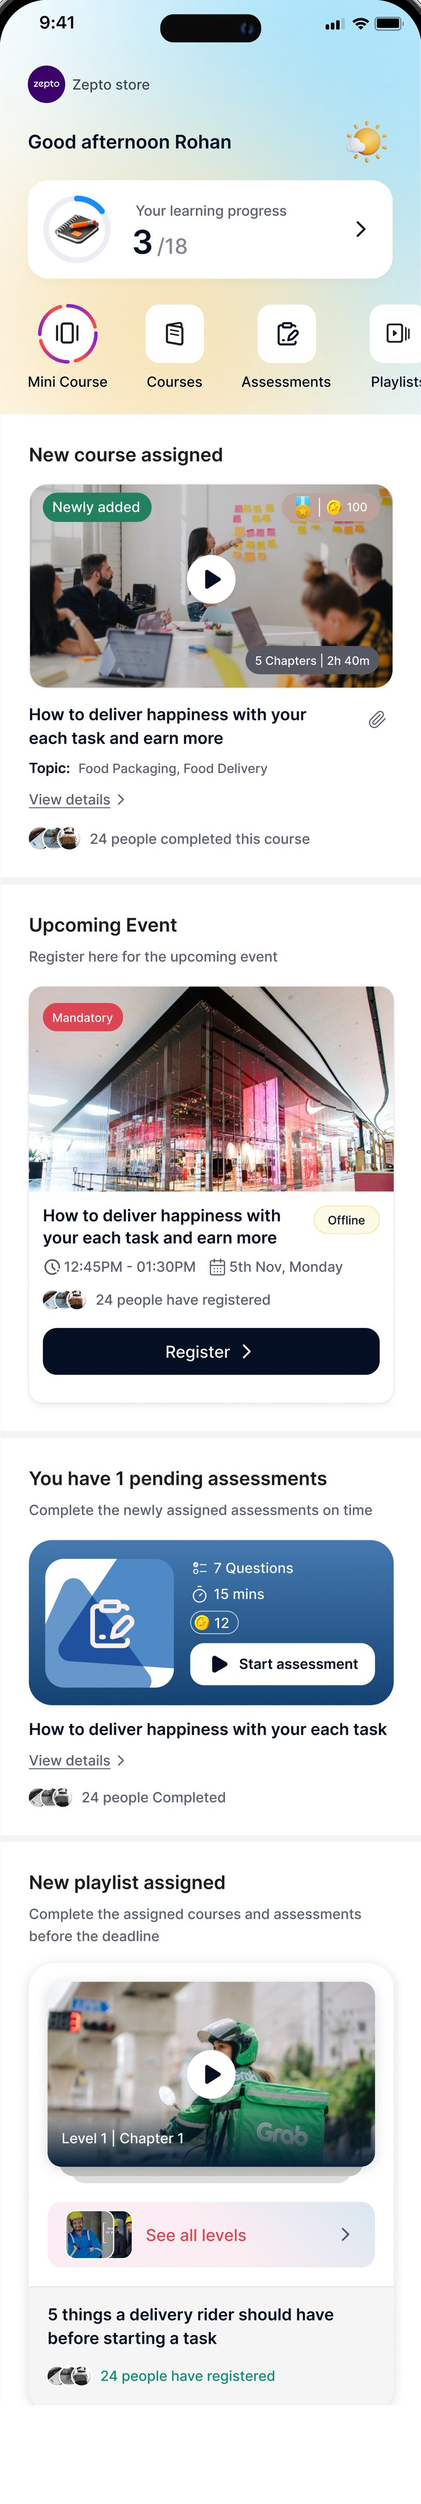
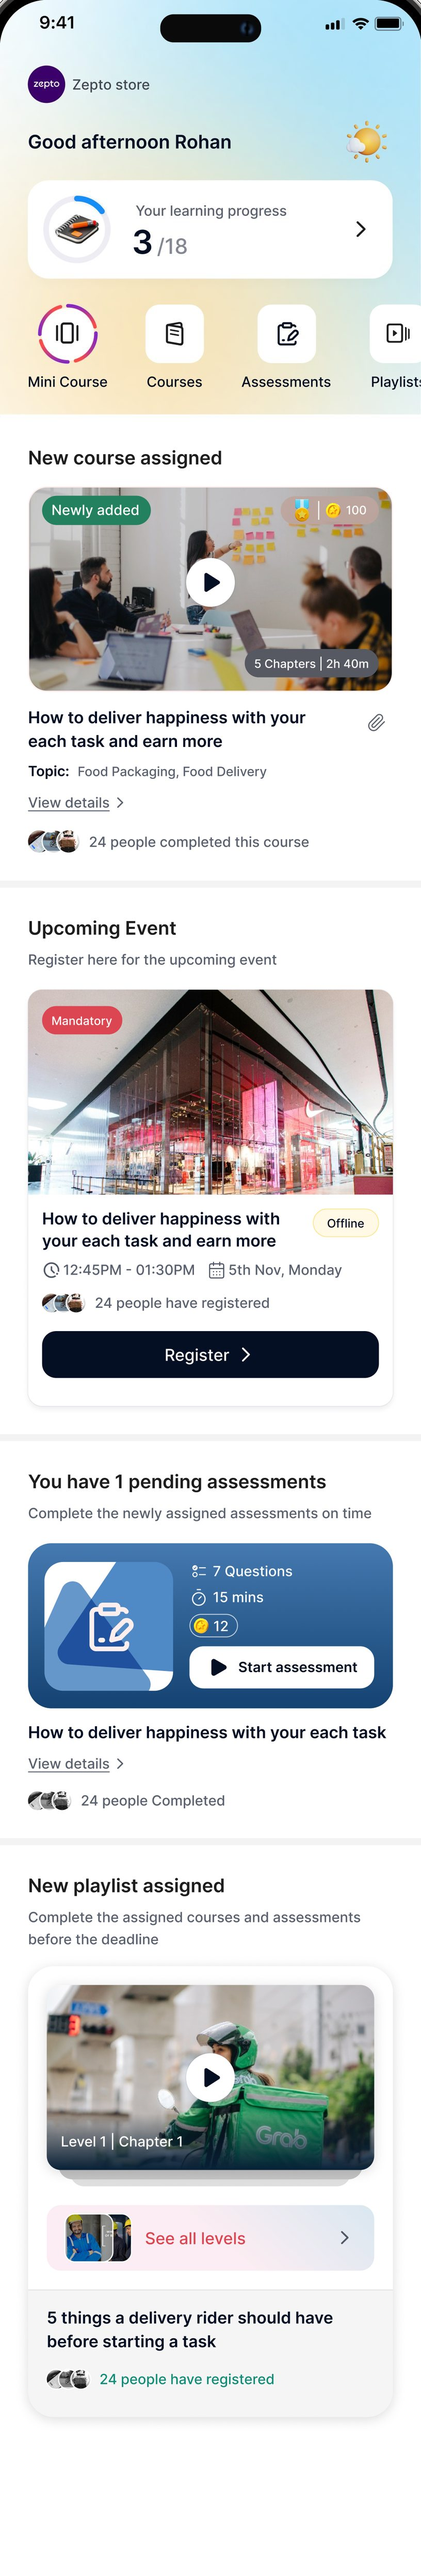
Pinned phones: every step holds its time, no screens showing through; new home content; whole-page course detail
- each step stays up at least 850ms from when it arrived, in both directions
- only the screen being replaced is held underneath a swap
- home feed rebuilt from the updated content export, with room below the last card
- spotlights on course and assessment home states fit inside their sections and sit centred
- course detail: default, in progress and completed as whole-page notes that swap in place

diff --git a/work-skilling.html b/work-skilling.html
@@ -503,18 +503,19 @@ body.cs-lb-lock { overflow: hidden; }
 .cs-phone-screen { contain: layout paint; }
 .cs-phone-bezel { position: absolute; inset: 0; width: 100%; height: 100%; pointer-events: none; }
 .cs-phone-screen { position: absolute; left: 4.735%; top: 1.905%; width: 90.694%; height: 96.27%; border-radius: 10.62% / 4.864%; overflow: hidden; background: #fff; }
-.cs-phone-feed { position: relative; transform: translateY(calc(-1 * var(--y))); transition: transform 0.9s cubic-bezier(0.65, 0, 0.35, 1); }
+.cs-phone-feed { position: relative; transform: translateY(calc(-1 * var(--y))); transition: transform 0.75s cubic-bezier(0.65, 0, 0.35, 1); }
 .cs-phone-feed img { display: block; width: 100%; height: auto; }
 .cs-phone-bar { position: absolute; left: 0; right: 0; }
 .cs-phone-bar img { display: block; width: 100%; height: auto; }
 .cs-phone-status { top: 0; opacity: 0; transition: opacity 0.4s ease; }
 .cs-phone-view.is-scrolled .cs-phone-status, .cs-phone-status--on { opacity: 1; }
 .cs-phone-view { position: absolute; inset: 0; opacity: 0; transform: translateY(14px) scale(0.99); transition: opacity 0.55s ease, transform 0.7s cubic-bezier(0.16, 1, 0.3, 1); }
-.cs-phone-view.is-current { opacity: 1; transform: none; z-index: 1; }
-.cs-phone-view:not(.is-current) { transition-delay: 0.6s; }
+.cs-phone-view.is-current { opacity: 1; transform: none; z-index: 2; }
+/* the screen being replaced holds still underneath until the new one is in; older screens have already gone */
+.cs-phone-view.is-leaving { z-index: 1; transition-delay: 0.5s; }
 /* another state of the same page swaps in place, without the rise */
 .cs-phone-view--same { transform: none; }
-.cs-phone-view:not(.is-current) .cs-ring { transition-delay: 0.6s; }
+.cs-phone-view.is-leaving .cs-ring { transition-delay: 0.5s; }
 .js .cs-phone-view.is-arriving .cs-ring { transition: none; }
 .cs-phone-nav { bottom: 0; }
 .cs-phone-bar::after { content: ''; position: absolute; inset: 0; background: var(--dim); opacity: 0; transition: opacity 0.4s ease; }
@@ -1391,8 +1392,8 @@ footer .right a { display: inline-flex; align-items: center; min-height: 44px; p
         <div class="cs-phone-screen">
           <div class="cs-phone-view is-current">
             <div class="cs-phone-feed">
-              <img src="assets/skilling/ui/home-feed.jpg" alt="The Up-skill home feed: progress, quick access, new course, upcoming event, pending assessment and new playlist" width="816" height="4848" loading="lazy" decoding="async">
-              <span class="cs-ring" data-step="1" style="--t:7.015%;--h:4.258%;--l:2.8%;--w:94.4%"></span><span class="cs-ring" data-step="2" style="--t:11.894%;--h:3.939%;--l:3.6%;--w:96.4%"></span><span class="cs-ring" data-step="3" style="--t:16.818%;--h:18.03%;--l:2.16%;--w:95.68%"></span><span class="cs-ring" data-step="4" style="--t:35.606%;--h:21.364%;--l:2.16%;--w:95.68%"></span><span class="cs-ring" data-step="5" style="--t:57.652%;--h:15.455%;--l:2.16%;--w:95.68%"></span><span class="cs-ring" data-step="6" style="--t:73.788%;--h:22.121%;--l:2.16%;--w:95.68%"></span>
+              <img src="assets/skilling/ui/home-feed.jpg" alt="The Up-skill home feed: progress, quick access, new course, upcoming event, pending assessment and new playlist" width="816" height="4987" loading="lazy" decoding="async">
+              <span class="cs-ring" data-step="1" style="--t:6.818%;--h:4.131%;--l:2.8%;--w:94.4%"></span><span class="cs-ring" data-step="2" style="--t:11.57%;--h:3.83%;--l:3.6%;--w:96.4%"></span><span class="cs-ring" data-step="3" style="--t:17.104%;--h:16.342%;--l:2.16%;--w:95.68%"></span><span class="cs-ring" data-step="4" style="--t:35.252%;--h:19.852%;--l:2.16%;--w:95.68%"></span><span class="cs-ring" data-step="5" style="--t:56.707%;--h:14.137%;--l:2.16%;--w:95.68%"></span><span class="cs-ring" data-step="6" style="--t:72.348%;--h:22.158%;--l:2.16%;--w:95.68%"></span>
             </div>
             <div class="cs-phone-bar cs-phone-status"><img src="assets/skilling/ui/home-status.webp" alt="" width="816" height="93" loading="lazy" decoding="async"></div>
             <div class="cs-phone-bar cs-phone-nav"><img src="assets/skilling/ui/home-nav.webp" alt="" width="816" height="181" loading="lazy" decoding="async"></div>
@@ -1411,22 +1412,22 @@ footer .right a { display: inline-flex; align-items: center; min-height: 44px; p
         <h3 class="cs-step-title">Quick access</h3>
         <p class="cs-step-desc">Clear, direct navigation to every independent module: mini courses, courses, assessments and playlists.</p>
       </li>
-      <li class="cs-step cs-step--left" data-step="3" data-y="9.273">
+      <li class="cs-step cs-step--left" data-step="3" data-y="8.287">
         <span class="cs-step-n">03</span>
         <h3 class="cs-step-title">Task-oriented, contextual content</h3>
         <p class="cs-step-desc">Whatever users need to accomplish is on top, in priority order, so the next task is always the first thing they see.</p>
       </li>
-      <li class="cs-step cs-step--right" data-step="4" data-y="29.727">
+      <li class="cs-step cs-step--right" data-step="4" data-y="28.188">
         <span class="cs-step-n">04</span>
         <h3 class="cs-step-title">Instructive</h3>
         <p class="cs-step-desc">Each card guides users to one clear action, with visual cues, a prominent CTA and a strong visual hierarchy.</p>
       </li>
-      <li class="cs-step cs-step--left" data-step="5" data-y="48.833">
+      <li class="cs-step cs-step--left" data-step="5" data-y="46.787">
         <span class="cs-step-n">05</span>
         <h3 class="cs-step-title">Pending assessments</h3>
         <p class="cs-step-desc">Assessments due soon show their questions, time and reward up front, with a single CTA to start.</p>
       </li>
-      <li class="cs-step cs-step--right" data-step="6" data-y="63.242">
+      <li class="cs-step cs-step--right" data-step="6" data-y="64.257">
         <span class="cs-step-n">06</span>
         <h3 class="cs-step-title">Playlists</h3>
         <p class="cs-step-desc">Assigned playlists show the level and chapter a user is on, so they pick up right where they left off.</p>
@@ -1448,26 +1449,26 @@ footer .right a { display: inline-flex; align-items: center; min-height: 44px; p
   <div class="cs-pin-stage">
       <div class="cs-annot cs-phone">
         <div class="cs-phone-screen">
-          <div class="cs-phone-view is-current">
+          <div class="cs-phone-view cs-phone-view--same is-current">
             <div class="cs-phone-feed">
               <img src="assets/skilling/ui/course-v-new.jpg" alt="Home page with a newly assigned course card" width="816" height="2267" loading="lazy" decoding="async">
-              <span class="cs-ring" data-step="1" style="--t:35.6%;--h:39.45%;--l:2.16%;--w:95.68%"></span>
+              <span class="cs-ring" data-step="1" style="--t:37.274%;--h:36.039%;--l:2.16%;--w:95.68%"></span>
             </div>
             <div class="cs-phone-bar cs-phone-status cs-phone-status--on"><img src="assets/skilling/ui/home-status-c.webp" alt="" width="816" height="93" loading="lazy" decoding="async"></div>
             <div class="cs-phone-bar cs-phone-nav"><img src="assets/skilling/ui/home-nav.webp" alt="" width="816" height="181" loading="lazy" decoding="async"></div>
           </div>
-          <div class="cs-phone-view">
+          <div class="cs-phone-view cs-phone-view--same">
             <div class="cs-phone-feed">
               <img src="assets/skilling/ui/course-v-deadline.jpg" alt="Home page with a mandatory course close to its deadline and a countdown" width="816" height="2267" loading="lazy" decoding="async">
-              <span class="cs-ring" data-step="2" style="--t:35.875%;--h:42.63%;--l:0%;--w:100%"></span>
+              <span class="cs-ring" data-step="2" style="--t:37.539%;--h:39.303%;--l:0%;--w:100%"></span>
             </div>
             <div class="cs-phone-bar cs-phone-status cs-phone-status--on"><img src="assets/skilling/ui/home-status-c.webp" alt="" width="816" height="93" loading="lazy" decoding="async"></div>
             <div class="cs-phone-bar cs-phone-nav"><img src="assets/skilling/ui/home-nav.webp" alt="" width="816" height="181" loading="lazy" decoding="async"></div>
           </div>
-          <div class="cs-phone-view">
+          <div class="cs-phone-view cs-phone-view--same">
             <div class="cs-phone-feed">
               <img src="assets/skilling/ui/course-v-set.jpg" alt="Home page with four pending courses and a link to view all of them" width="816" height="2267" loading="lazy" decoding="async">
-              <span class="cs-ring" data-step="3" style="--t:35.6%;--h:47%;--l:2.16%;--w:95.68%"></span>
+              <span class="cs-ring" data-step="3" style="--t:37.274%;--h:43.449%;--l:2.16%;--w:95.68%"></span>
             </div>
             <div class="cs-phone-bar cs-phone-status cs-phone-status--on"><img src="assets/skilling/ui/home-status-c.webp" alt="" width="816" height="93" loading="lazy" decoding="async"></div>
             <div class="cs-phone-bar cs-phone-nav"><img src="assets/skilling/ui/home-nav.webp" alt="" width="816" height="181" loading="lazy" decoding="async"></div>
@@ -1475,36 +1476,36 @@ footer .right a { display: inline-flex; align-items: center; min-height: 44px; p
           <div class="cs-phone-view">
             <div class="cs-phone-feed">
               <img src="assets/skilling/ui/course-v-detail-1.jpg" alt="Course page before starting, with Start Chapter 1 and later chapters locked" width="816" height="1813" loading="lazy" decoding="async">
-              <span class="cs-ring" data-step="4" style="--t:0%;--h:51.88%;--l:0%;--w:100%"></span>
+              <span class="cs-ring cs-ring--frame" data-step="4" style="--t:0%;--h:98.32%;--l:0%;--w:100%"></span>
             </div>
           </div>
-          <div class="cs-phone-view">
+          <div class="cs-phone-view cs-phone-view--same">
             <div class="cs-phone-feed">
               <img src="assets/skilling/ui/course-v-detail-2.jpg" alt="Course page in progress: chapter 1 completed, chapter 2 partly watched, chapter 3 locked" width="816" height="1813" loading="lazy" decoding="async">
-              <span class="cs-ring" data-step="5" style="--t:51.88%;--h:48.12%;--l:0%;--w:100%"></span>
+              <span class="cs-ring cs-ring--frame" data-step="5" style="--t:0%;--h:98.32%;--l:0%;--w:100%"></span>
             </div>
           </div>
-          <div class="cs-phone-view">
+          <div class="cs-phone-view cs-phone-view--same">
             <div class="cs-phone-feed">
               <img src="assets/skilling/ui/course-v-detail-3.jpg" alt="Course page with every chapter completed" width="816" height="1813" loading="lazy" decoding="async">
-              <span class="cs-ring" data-step="6" style="--t:41.62%;--h:58.38%;--l:0%;--w:100%"></span>
+              <span class="cs-ring cs-ring--frame" data-step="6" style="--t:0%;--h:98.32%;--l:0%;--w:100%"></span>
             </div>
           </div>
         </div>
         <img class="cs-phone-bezel" src="assets/skilling/ui/home-bezel.webp" alt="" width="900" height="1852" loading="lazy" decoding="async">
       </div>
     <ol class="cs-notes">
-      <li class="cs-step cs-step--left" data-step="1" data-view="0" data-y="7.5">
+      <li class="cs-step cs-step--left" data-step="1" data-view="0" data-y="17.9">
         <span class="cs-step-n">01</span>
         <h3 class="cs-step-title">A new course</h3>
         <p class="cs-step-desc">A prominent play button starts learning quickly. Badges, coins, length, chapters and topics sit up front, with View details for those who want to know more first.</p>
       </li>
-      <li class="cs-step cs-step--right" data-step="2" data-view="1" data-y="11.25">
+      <li class="cs-step cs-step--right" data-step="2" data-view="1" data-y="19.8">
         <span class="cs-step-n">02</span>
         <h3 class="cs-step-title">Close to the deadline</h3>
         <p class="cs-step-desc">A tinted banner and a running countdown capture attention and help users finish pending courses on time.</p>
       </li>
-      <li class="cs-step cs-step--left" data-step="3" data-view="2" data-y="13">
+      <li class="cs-step cs-step--left" data-step="3" data-view="2" data-y="21.39">
         <span class="cs-step-n">03</span>
         <h3 class="cs-step-title">Several at once</h3>
         <p class="cs-step-desc">One course is highlighted and the rest stack behind View all assigned courses, so a long list never overwhelms.</p>
@@ -1580,7 +1581,7 @@ footer .right a { display: inline-flex; align-items: center; min-height: 44px; p
           <div class="cs-phone-view cs-phone-view--same is-current">
             <div class="cs-phone-feed">
               <img src="assets/skilling/ui/assess-v-home.jpg" alt="Home page with a list of six assigned assessments" width="816" height="2267" loading="lazy" decoding="async">
-              <span class="cs-ring" data-step="1" style="--t:35.4%;--h:30.5%;--l:0%;--w:100%"></span>
+              <span class="cs-ring" data-step="1" style="--t:37.583%;--h:27.084%;--l:0%;--w:100%"></span>
             </div>
             <div class="cs-phone-bar cs-phone-status cs-phone-status--on"><img src="assets/skilling/ui/home-status-c.webp" alt="" width="816" height="93" loading="lazy" decoding="async"></div>
             <div class="cs-phone-bar cs-phone-nav"><img src="assets/skilling/ui/home-nav.webp" alt="" width="816" height="181" loading="lazy" decoding="async"></div>
@@ -1588,7 +1589,7 @@ footer .right a { display: inline-flex; align-items: center; min-height: 44px; p
           <div class="cs-phone-view cs-phone-view--same">
             <div class="cs-phone-feed">
               <img src="assets/skilling/ui/assess-v-deadline.jpg" alt="Home page with an assessment close to its deadline and a countdown" width="816" height="2267" loading="lazy" decoding="async">
-              <span class="cs-ring" data-step="2" style="--t:35.875%;--h:31.03%;--l:0%;--w:100%"></span>
+              <span class="cs-ring" data-step="2" style="--t:37.539%;--h:27.658%;--l:0%;--w:100%"></span>
             </div>
             <div class="cs-phone-bar cs-phone-status cs-phone-status--on"><img src="assets/skilling/ui/home-status-c.webp" alt="" width="816" height="93" loading="lazy" decoding="async"></div>
             <div class="cs-phone-bar cs-phone-nav"><img src="assets/skilling/ui/home-nav.webp" alt="" width="816" height="181" loading="lazy" decoding="async"></div>
@@ -2266,7 +2267,10 @@ var CS_REDUCE = window.matchMedia && window.matchMedia('(prefers-reduced-motion:
       var note = notes[k - 1];
       var y = note ? parseFloat(note.getAttribute('data-y')) || 0 : 0;
       var v = note ? parseInt(note.getAttribute('data-view'), 10) || 0 : 0;
+      last = Date.now();
       views.forEach(function(view, i) {
+        // only the screen being replaced is held underneath; older ones clear at once, so they never show through
+        view.classList.toggle('is-leaving', i !== v && view.classList.contains('is-current'));
         if (i === v && !view.classList.contains('is-current')) {
           // an incoming screen starts where its step needs it, instead of scrolling there while fading in
           var f = view.querySelector('.cs-phone-feed');
@@ -2307,8 +2311,9 @@ var CS_REDUCE = window.matchMedia && window.matchMedia('(prefers-reduced-motion:
         n.style.setProperty('--len', Math.max(16, len) + 'px');
       });
     }
-    // A fast scroll never jumps straight to a far step: the phone walks there one step at a time
-    var target = 0, walking = null, HOLD = 650;   // long enough for the note and highlight to finish arriving
+    // A fast scroll never jumps straight to a far step: the phone walks there one step at a time,
+    // and every step stays up for at least HOLD, counted from when it arrived
+    var target = 0, walking = null, last = 0, HOLD = 850;   // long enough for the screen, note and highlight to finish arriving
     function walk() {
       walking = null;
       if (cur === target) return;
@@ -2318,7 +2323,7 @@ var CS_REDUCE = window.matchMedia && window.matchMedia('(prefers-reduced-motion:
     function go(k) {
       target = k;
       if (cur < 0) { set(k); return; }
-      if (!walking) walk();
+      if (!walking && cur !== target) walking = setTimeout(walk, Math.max(0, HOLD - (Date.now() - last)));
     }
     function tick() {
       raf = null;
